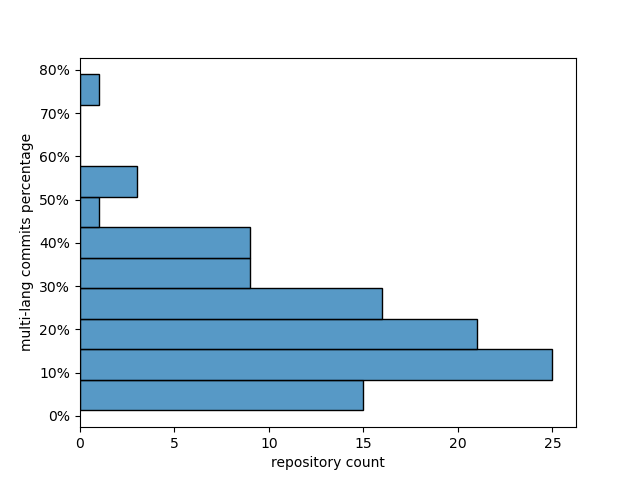
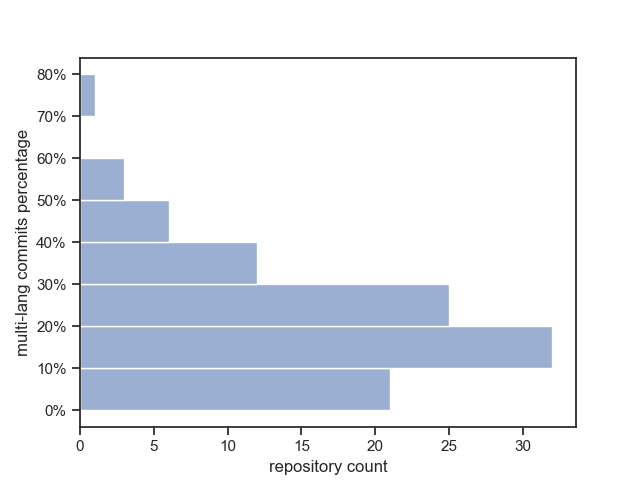
histplot bin range changed

Changed region(s): [[0.0, 0.2812, 0.9062, 1.0], [0.0625, 0.0938, 0.9062, 0.25]]

diff --git a/plot_gen/code/draw_plot.py b/plot_gen/code/draw_plot.py
@@ -1,7 +1,6 @@
 import seaborn as sns
 import pandas as pd
 import os
-from sys import platform
 import matplotlib.pyplot as plt
 
 metric_type = ["changed files", "hunks", "added lines", "deleted lines"]
@@ -11,7 +10,7 @@ plot_dir = "../plots"
 for metric in metric_type:
     sns.set_theme(style="ticks", palette="pastel")
     data = pd.read_csv(os.path.join(csv_dir, metric + ".csv"))
-    f = plt.figure(figsize=[4,6])
+    f = plt.figure(figsize=[4, 6])
     ax = f.add_subplot(111)
     plot = sns.boxplot(x="commit type",
                        y=metric + " count",
@@ -26,8 +25,6 @@ for metric in metric_type:
     fig = plot.get_figure()
     fig.savefig(os.path.join(plot_dir, metric + ".png"))
     fig.clf()
-
-
 
 # for metric in metric_type:
 #     sns.set_theme(style="whitegrid")

diff --git a/plot_gen/code/repo_multilang_percent_plot.py b/plot_gen/code/repo_multilang_percent_plot.py
@@ -116,8 +116,10 @@ def allRepos():
 
 
 def drawPlot():
+    sns.set_theme(style="ticks", palette="pastel")
     data = pd.read_csv(os.path.join(csv_dir, "multi-lang-percent.csv"))
-    plot = sns.histplot(data=data, y="percentage")
+    plot = sns.histplot(data=data, y="percentage", binwidth=10, binrange=(0, 80), color="#7a95c4")
+    # plot.set_ylim(bottom=0)
     ylabels = ['{:,.0f}'.format(x) + '%' for x in plot.get_yticks()]
     plot.set_yticklabels(ylabels)
     plot.set(xlabel="repository count", ylabel="multi-lang commits percentage")
